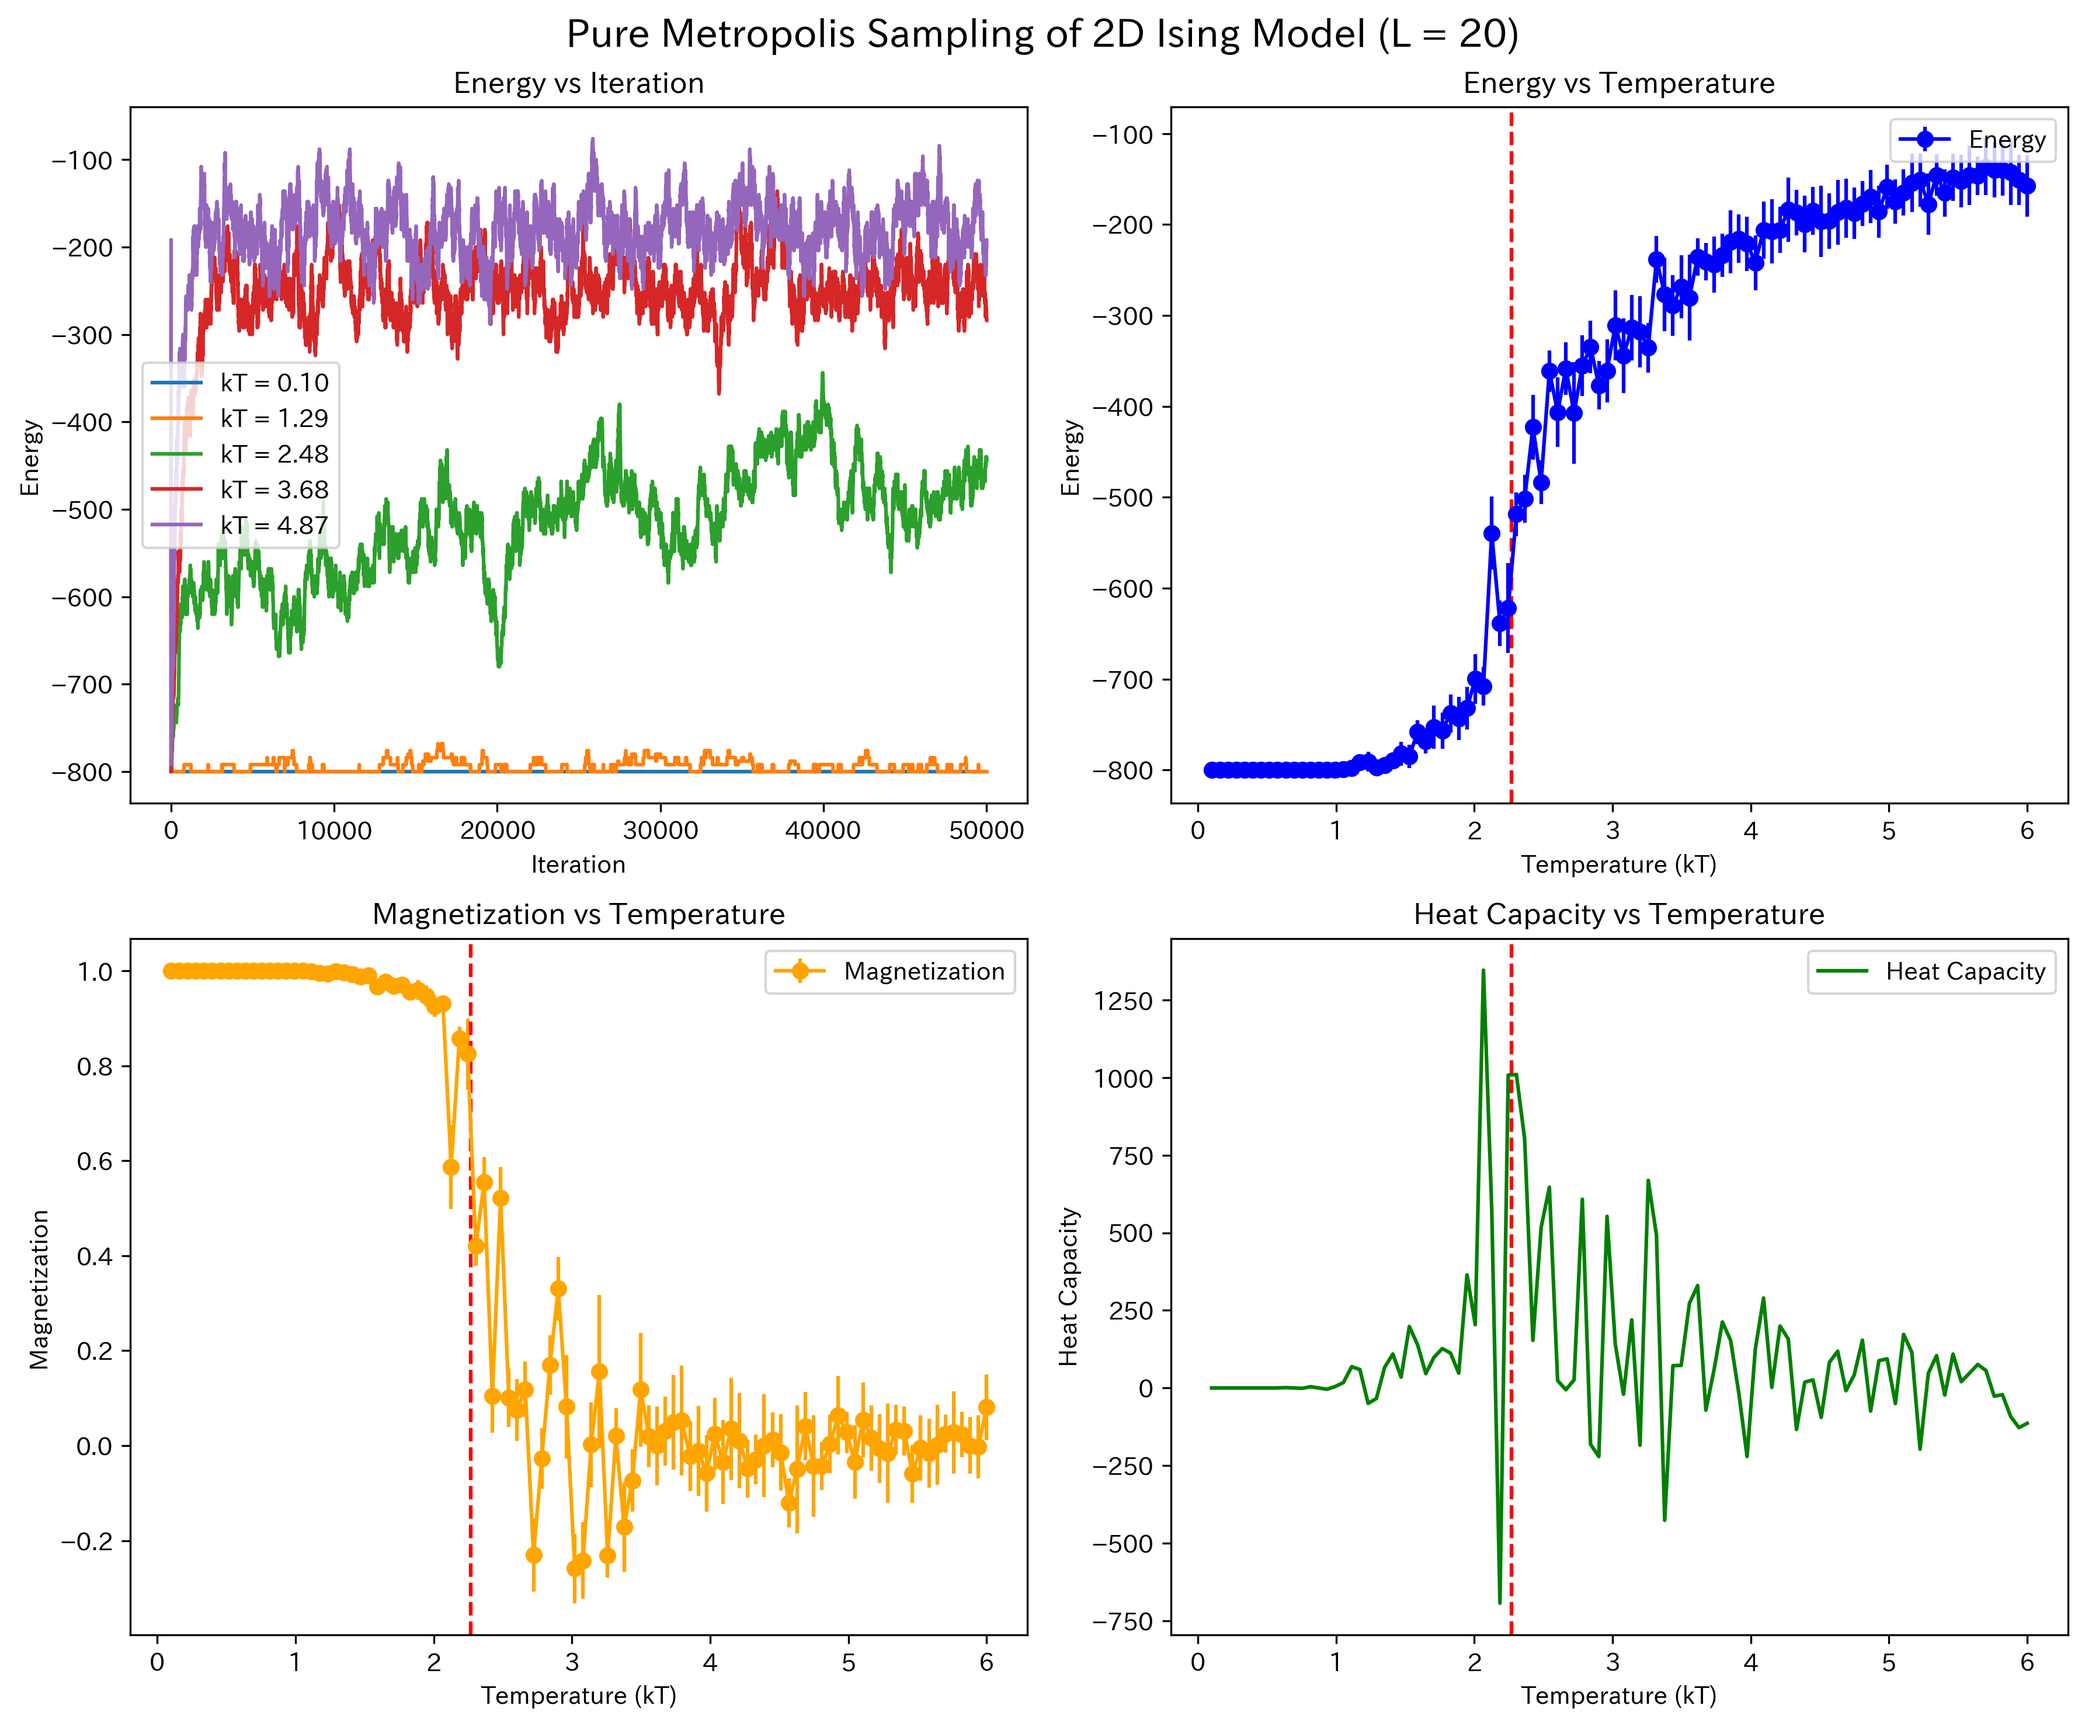
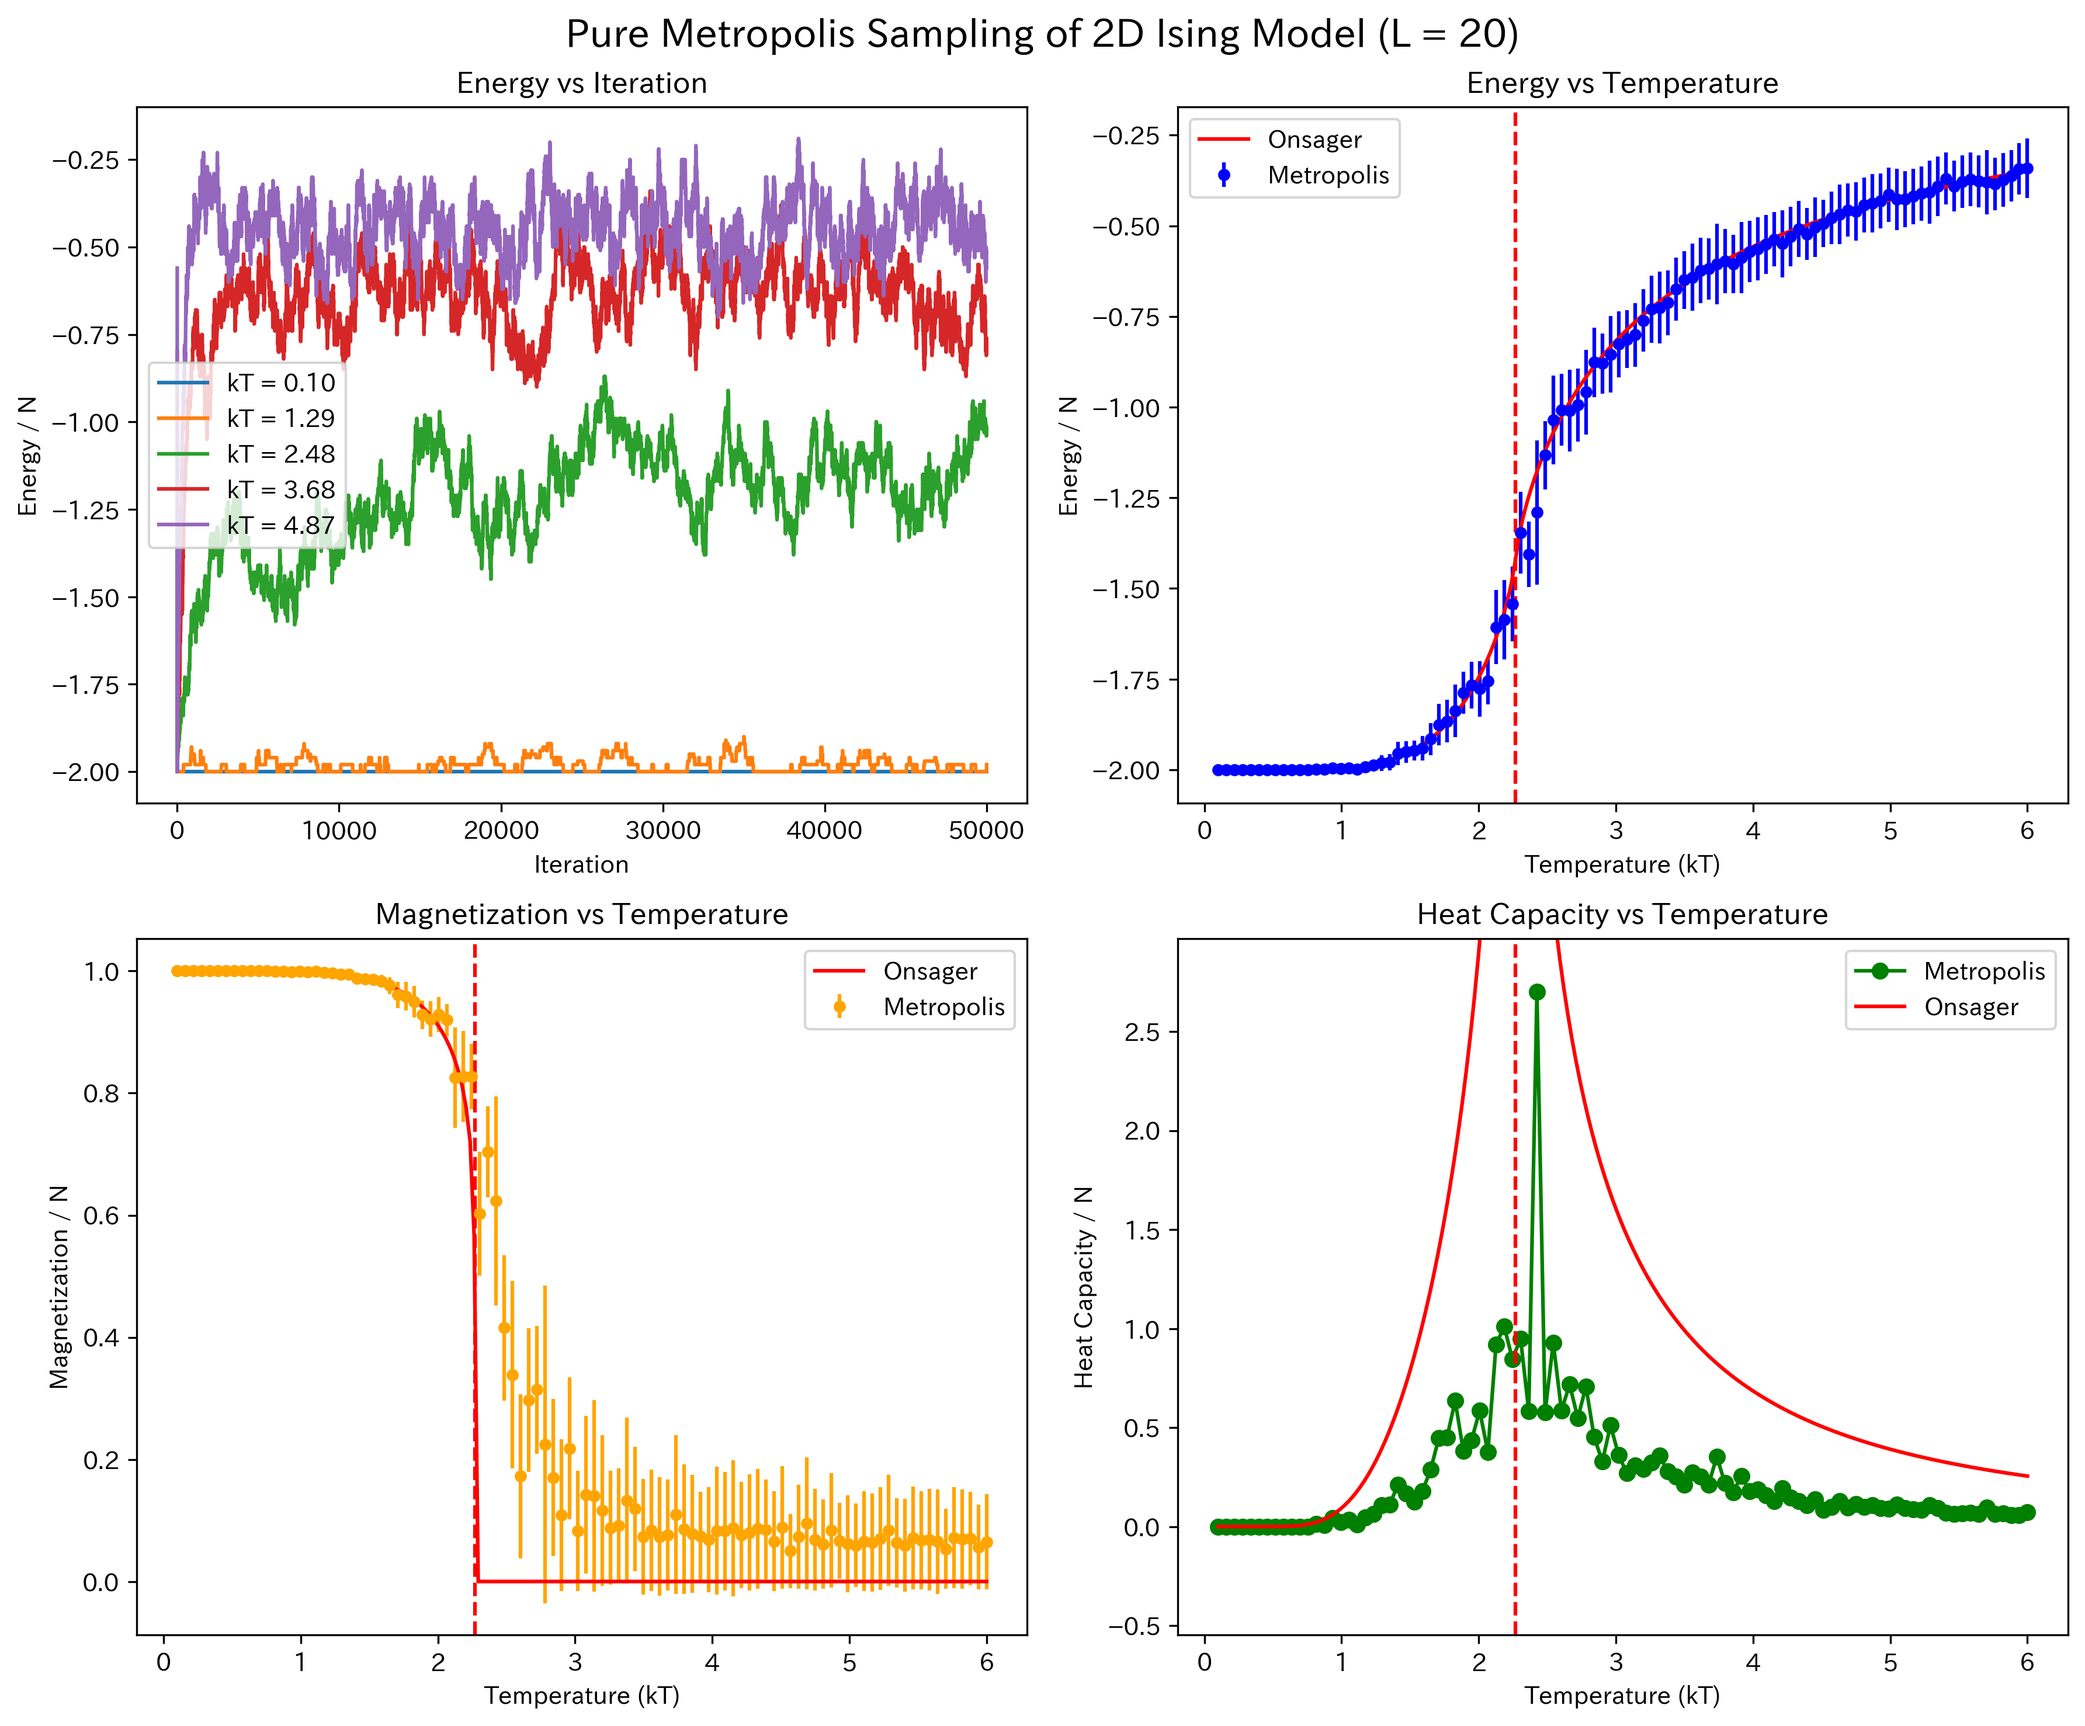
add onsager and cache

diff --git a/pure_metoropolis_2d_ising.py b/pure_metoropolis_2d_ising.py
@@ -4,13 +4,62 @@
 import japanize_matplotlib  # noqa: F401
 import matplotlib.pyplot as plt
 import numpy as np
+from scipy.special import ellipe, ellipk
 from tqdm import tqdm
+
+from utils import load_np, save_np
 
 # import tensorflow as tf
 
 np.random.seed(42)
 
 theoretical_critical_kT = 2.2691  # 2次元Isingモデルの理論的臨界温度 (kT)
+
+
+def onsager_energy(kT, J):
+    """
+    Onsager's solution for the energy per site of the 2D Ising model.
+    """
+    beta = 1.0 / kT
+    k = 2 * np.sinh(2 * beta * J) / (np.cosh(2 * beta * J) ** 2)
+    K = ellipk(k**2)
+    E_N = (
+        -J
+        * (1.0 / np.tanh(2 * beta * J))
+        * (1 + (2.0 / np.pi) * (2 * np.tanh(2 * beta * J) ** 2 - 1) * K)
+    )
+    return E_N
+
+
+def onsager_magnetization(kT, J):
+    """
+    Onsager's solution for spontaneous magnetization per site of 2D Ising model.
+    """
+    m = np.zeros_like(kT)
+    kTc = 2 * J / np.arcsinh(1.0)
+    with np.errstate(invalid="ignore"):
+        magnetization = (1 - np.sinh(2 * J / kT) ** (-4)) ** (1 / 8.0)
+    m[kT < kTc] = magnetization[kT < kTc]
+    return m
+
+
+def onsager_heat_capacity(kT, J):
+    """
+    Onsager's solution for the heat capacity per site of the 2D Ising model.
+    """
+    beta = 1.0 / kT
+    with np.errstate(invalid="ignore"):
+        k = 2 * np.sinh(2 * beta * J) / (np.cosh(2 * beta * J) ** 2)
+        K = ellipk(k**2)
+        E = ellipe(k**2)
+        k_prime = 2 * np.tanh(2 * beta * J) ** 2 - 1
+        # C/k_B
+        C_N_kB = (
+            (2.0 / np.pi)
+            * (2.0 * J * beta / np.tanh(2 * beta * J)) ** 2
+            * (2.0 * K - 2.0 * E - (1.0 - k_prime) * (np.pi / 2.0 + k_prime * K))
+        )
+    return C_N_kB
 
 
 def pure_metropolis_next(x: np.ndarray, beta: float, J: float, h: float) -> np.ndarray:
@@ -81,7 +130,7 @@ def pure_metropolis(
 J = 1.0  # 相互作用定数
 h = 0.0  # 外部磁場
 L = 50  # 格子の一辺の長さ
-n_steps = 50000  # サンプリングステップ数
+n_steps = 100000  # サンプリングステップ数
 beta = 0.1  # 逆温度
 
 
@@ -100,22 +149,57 @@ def pure_metropolis_run():
     """
     kT_lst = np.linspace(0.1, 6.0, 100)
     beta_lst = 1 / kT_lst
-    results = []
-    for beta in tqdm(beta_lst, desc="Running Pure Metropolis"):
-        r = metropolis_worker(beta, J, h, L, n_steps)
-        results.append(r)
-    energy_lst, magnetization_lst = zip(*results)
-    energy_lst = np.array(energy_lst)
-    magnetization_lst = np.array(magnetization_lst)
+
+    input_dict_energy = dict(
+        name="pure_metropolis_run.energy",
+        L=L,
+        n_steps=n_steps,
+        J=J,
+        h=h,
+        beta=str(beta_lst),
+    )
+    input_dict_magnetization = dict(
+        name="pure_metropolis_run.magnetization",
+        L=L,
+        n_steps=n_steps,
+        J=J,
+        h=h,
+        beta=str(beta_lst),
+    )
+
+    energy_lst = load_np(input_dict_energy)
+    magnetization_lst = load_np(input_dict_magnetization)
+    if energy_lst is None or magnetization_lst is None:
+        results = []
+        for beta in tqdm(beta_lst, desc="Running Pure Metropolis"):
+            r = metropolis_worker(beta, J, h, L, n_steps)
+            results.append(r)
+        energy_lst, magnetization_lst = zip(*results)
+        energy_lst = np.array(energy_lst)
+        magnetization_lst = np.array(magnetization_lst)
+
+        # データの保存
+        save_np(energy_lst, input_dict_energy)
+        save_np(magnetization_lst, input_dict_magnetization)
 
     # エネルギー・磁化の平均と標準偏差 (後半の50%のデータを使用)
-    energy_mean = np.mean(energy_lst[:, -n_steps // 2 :], axis=1)
-    energy_std = np.std(energy_lst[:, -n_steps // 2 :], axis=1)
-    magnetization_mean = np.mean(magnetization_lst[:, -n_steps // 10 :], axis=1)
-    magnetization_std = np.std(magnetization_lst[:, -n_steps // 10 :], axis=1)
+    equil_step = n_steps // 2
+    energy_mean = np.mean(energy_lst[:, -equil_step:], axis=1) / (L * L)
+    energy_std = np.std(energy_lst[:, -equil_step:], axis=1) / (L * L)
+    magnetization_mean = np.mean(np.abs(magnetization_lst[:, -equil_step:]), axis=1)
+    magnetization_std = np.std(magnetization_lst[:, -equil_step:], axis=1)
 
     # 比熱 (C = dE/dT)
-    heat_capacity = np.gradient(energy_mean, kT_lst)
+    # heat_capacity = np.gradient(energy_mean, kT_lst)
+    # 揺らぎの公式を使って比熱を計算
+    # C/N = (<E^2> - <E>^2) / (N * kT^2)
+    heat_capacity = np.var(energy_lst[:, -equil_step:], axis=1) / (kT_lst**2 * (L * L))
+
+    # Onsagerの厳密解
+    onsager_kT = np.linspace(0.1, 6.0, 200)
+    onsager_E = onsager_energy(onsager_kT, J)
+    onsager_M = onsager_magnetization(onsager_kT, J)
+    onsager_C = onsager_heat_capacity(onsager_kT, J)
 
     # 結果のプロット
     fig, ax = plt.subplots(2, 2, figsize=(12, 10))
@@ -126,41 +210,54 @@ def pure_metropolis_run():
     idx = np.arange(0, len(kT_lst), len(kT_lst) // 5)
     for i in idx:
         ax[0, 0].plot(
-            np.arange(n_steps + 1), energy_lst[i], label=f"kT = {kT_lst[i]:.2f}"
+            np.arange(n_steps + 1),
+            energy_lst[i] / (L * L),
+            label=f"kT = {kT_lst[i]:.2f}",
         )
     ax[0, 0].set_title("Energy vs Iteration")
     ax[0, 0].set_xlabel("Iteration")
-    ax[0, 0].set_ylabel("Energy")
+    ax[0, 0].set_ylabel("Energy / N")
     ax[0, 0].legend()
     # エネルギー
     ax[0, 1].errorbar(
-        kT_lst, energy_mean, yerr=energy_std, fmt="o-", label="Energy", color="blue"
+        kT_lst,
+        energy_mean,
+        yerr=energy_std,
+        fmt="o",
+        label="Metropolis",
+        color="blue",
+        markersize=4,
     )
+    ax[0, 1].plot(onsager_kT, onsager_E, label="Onsager", color="red")
     ax[0, 1].axvline(theoretical_critical_kT, color="red", linestyle="--")
     ax[0, 1].set_title("Energy vs Temperature")
     ax[0, 1].set_xlabel("Temperature (kT)")
-    ax[0, 1].set_ylabel("Energy")
+    ax[0, 1].set_ylabel("Energy / N")
     ax[0, 1].legend()
     # 磁化
     ax[1, 0].errorbar(
         kT_lst,
         magnetization_mean,
         yerr=magnetization_std,
-        fmt="o-",
-        label="Magnetization",
+        fmt="o",
+        label="Metropolis",
         color="orange",
+        markersize=4,
     )
+    ax[1, 0].plot(onsager_kT, onsager_M, label="Onsager", color="red")
     ax[1, 0].axvline(theoretical_critical_kT, color="red", linestyle="--")
     ax[1, 0].set_title("Magnetization vs Temperature")
     ax[1, 0].set_xlabel("Temperature (kT)")
-    ax[1, 0].set_ylabel("Magnetization")
+    ax[1, 0].set_ylabel("Magnetization / N")
     ax[1, 0].legend()
     # 比熱
-    ax[1, 1].plot(kT_lst, heat_capacity, label="Heat Capacity", color="green")
+    ax[1, 1].plot(kT_lst, heat_capacity, "o-", label="Metropolis", color="green")
+    ax[1, 1].plot(onsager_kT, onsager_C, label="Onsager", color="red")
     ax[1, 1].axvline(theoretical_critical_kT, color="red", linestyle="--")
     ax[1, 1].set_title("Heat Capacity vs Temperature")
+    ax[1, 1].set_ylim(None, 1.1 * np.max(heat_capacity))
     ax[1, 1].set_xlabel("Temperature (kT)")
-    ax[1, 1].set_ylabel("Heat Capacity")
+    ax[1, 1].set_ylabel("Heat Capacity / N")
     ax[1, 1].legend()
     plt.tight_layout()
     # plt.show()

diff --git a/utils.py b/utils.py
@@ -1,3 +1,6 @@
+import hashlib
+import json
+import os
 import typing as tp
 
 import numpy as np
@@ -47,3 +50,48 @@ def mixed_gaussian_pdf(
         return pdf_values
 
     return pdf
+
+
+def hash_dict(d: dict) -> str:
+    # ソートして順番に依存しないようにする
+    d_str = json.dumps(d, sort_keys=True)
+    # ハッシュ化して16進数で返す（SHA256 -> 64文字だが短くしてもOK）
+    return hashlib.sha256(d_str.encode()).hexdigest()[:16]
+
+
+def save_np(data: np.ndarray, input: dict[str, str | int | float]) -> None:
+    """
+    NumPy配列をファイルに保存する関数
+
+    Parameters
+    ----------
+    data : np.ndarray
+        保存するNumPy配列
+    input : dict[str, str | int | float]
+        入力パラメータを含む辞書。データを識別するために使用します。
+        同じ入力パラメータであれば、同じファイル名で保存されます。
+    """
+    # input からハッシュ生成
+    hash_key = hash_dict(input)
+    filename = f"cache/data_{hash_key}.npy"
+    # ディレクトリが存在しない場合は作成
+    if not os.path.exists("cache"):
+        os.makedirs("cache")
+    np.save(filename, data)
+    print(f"Saved data to {filename}")
+
+
+def load_np(input: dict[str, str | int | float]) -> np.ndarray | None:
+    """
+    NumPy配列をファイルから読み込む関数
+    """
+    # input からハッシュ生成
+    hash_key = hash_dict(input)
+    filename = f"cache/data_{hash_key}.npy"
+    if os.path.exists(filename):
+        data = np.load(filename)
+        print(f"Loaded data from {filename}")
+        return data
+    else:
+        print(f"No data found for {filename}")
+        return None
